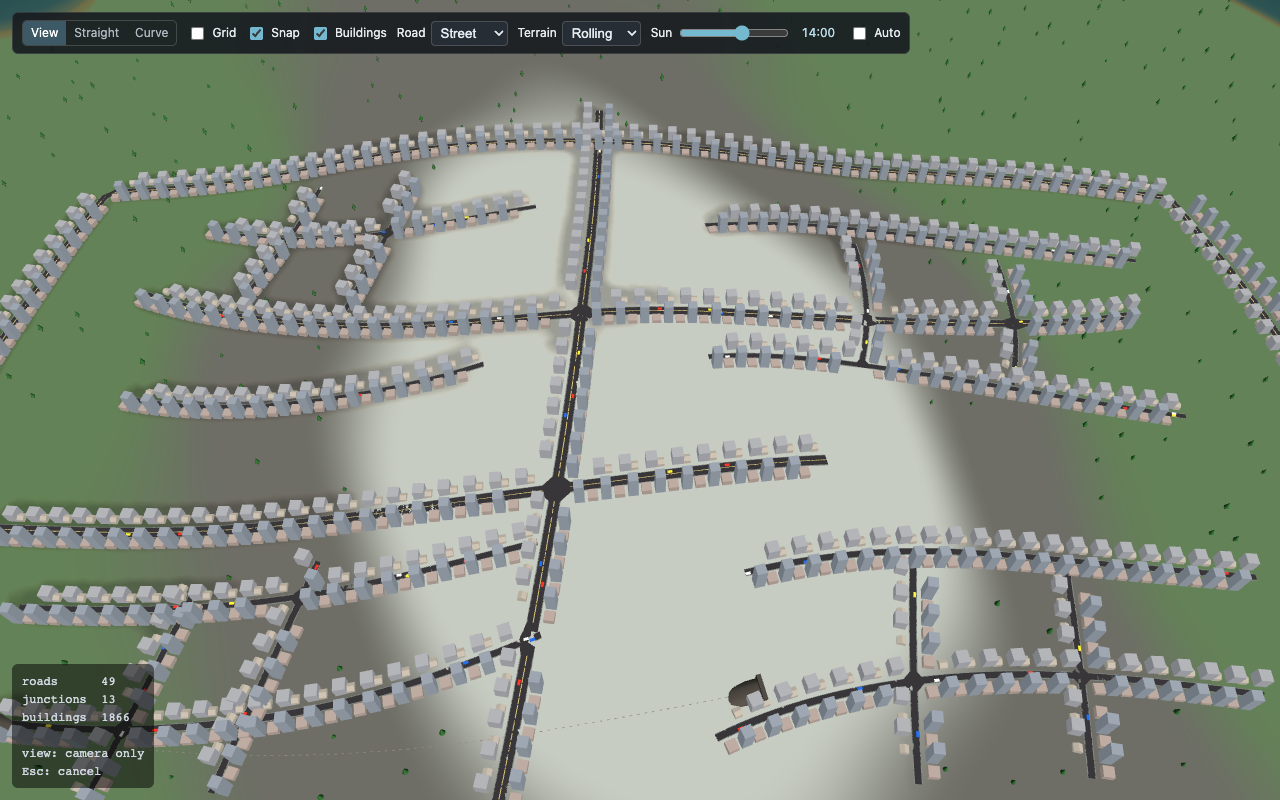
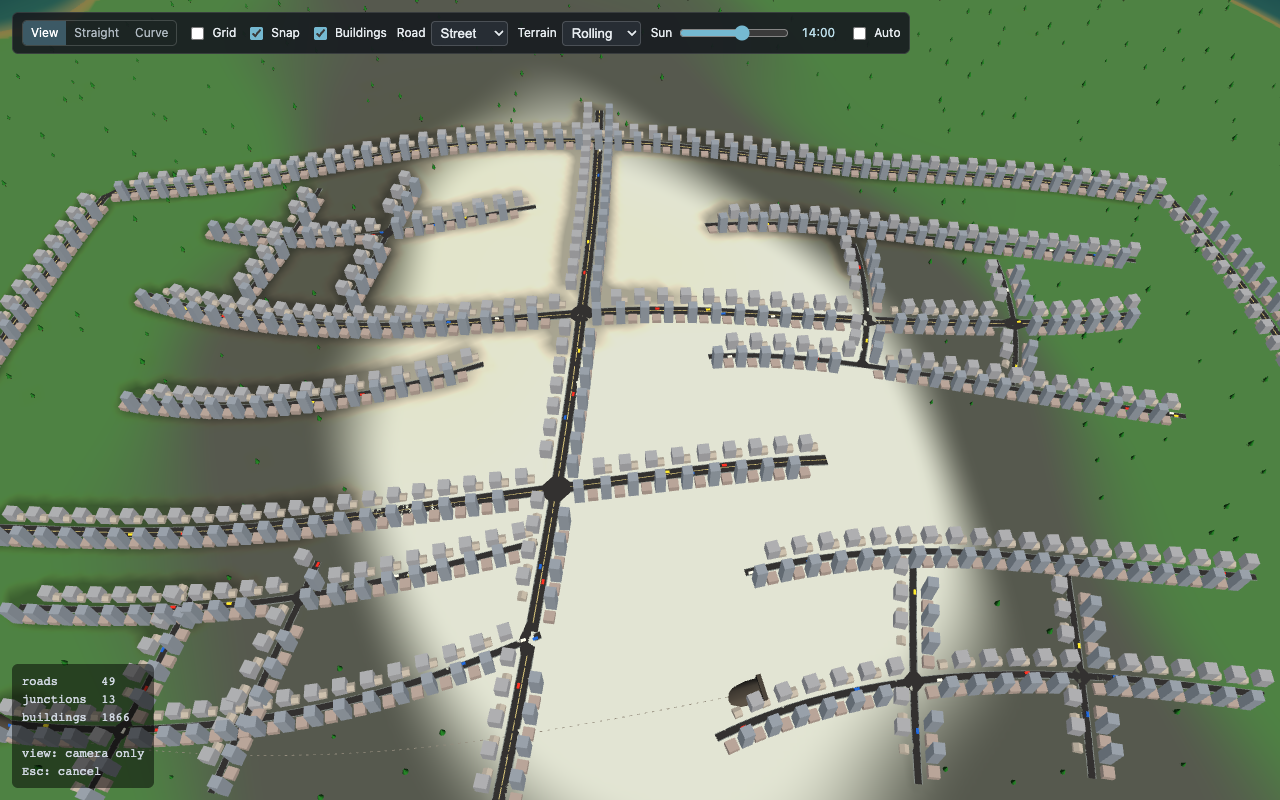
Boost scene color contrast

diff --git a/src/render/ground.ts b/src/render/ground.ts
@@ -80,8 +80,8 @@ export function createGround(scene: Scene, heightmap: Heightmap) {
 export function createOcean(scene: Scene) {
   const material = new StandardMaterial("ocean", scene);
   material.diffuseColor = Color3.White();
-  material.emissiveColor = new Color3(0.01, 0.04, 0.055);
-  material.specularColor = new Color3(0.35, 0.55, 0.62);
+  material.emissiveColor = new Color3(0.005, 0.035, 0.055);
+  material.specularColor = new Color3(0.45, 0.68, 0.72);
   material.transparencyMode = Material.MATERIAL_ALPHABLEND;
 
   const size = GROUND_SIZE;
@@ -138,7 +138,7 @@ function oceanDepth(x: number, z: number): number {
 }
 
 function oceanColor(depth: number, noise: number): Color4 {
-  const color = Color4.Lerp(new Color4(0.1, 0.42, 0.46, 1), new Color4(0.015, 0.12, 0.2, 1), depth * 0.85 + noise * 0.15);
+  const color = Color4.Lerp(new Color4(0.08, 0.5, 0.48, 1), new Color4(0.01, 0.09, 0.22, 1), depth * 0.85 + noise * 0.15);
   color.a = 0.18 + smoothstep(depth) * 0.72;
   return color;
 }
@@ -152,11 +152,11 @@ function waveNoise(x: number, z: number): number {
 }
 
 function terrainColor(h: number, x: number, z: number): Color4 {
-  const sand = new Color4(0.46, 0.43, 0.27, 1);
-  const grass = new Color4(0.39, 0.51, 0.34, 1);
-  const rock = new Color4(0.43, 0.43, 0.4, 1);
-  const snow = new Color4(0.78, 0.8, 0.76, 1);
-  const seafloor = Color4.Lerp(new Color4(0.22, 0.34, 0.32, 1), new Color4(0.08, 0.13, 0.15, 1), distanceFromIsland(x, z));
+  const sand = new Color4(0.58, 0.5, 0.29, 1);
+  const grass = new Color4(0.31, 0.5, 0.27, 1);
+  const rock = new Color4(0.34, 0.35, 0.31, 1);
+  const snow = new Color4(0.86, 0.87, 0.8, 1);
+  const seafloor = Color4.Lerp(new Color4(0.19, 0.36, 0.32, 1), new Color4(0.05, 0.1, 0.15, 1), distanceFromIsland(x, z));
   if (h < SEA_LEVEL + 4) {
     const shore = Color4.Lerp(sand, grass, smoothstep((h - SEA_LEVEL) / 8));
     return Color4.Lerp(seafloor, shore, smoothstep((h - (SEA_LEVEL - 10)) / 14));

diff --git a/src/render/scene.ts b/src/render/scene.ts
@@ -11,6 +11,8 @@ export function createScene(canvas: HTMLCanvasElement) {
   const engine = new Engine(canvas, true, { preserveDrawingBuffer: false, stencil: false });
   const scene = new Scene(engine);
   scene.clearColor = new Color4(0.106, 0.118, 0.137, 1);
+  scene.imageProcessingConfiguration.contrast = 1.12;
+  scene.imageProcessingConfiguration.exposure = 1.04;
 
   // Top-down-ish orbit camera: the city-builder default.
   const camera = new ArcRotateCamera("camera", -Math.PI / 2, Math.PI / 3.6, 220, Vector3.Zero(), scene);
@@ -23,23 +25,23 @@ export function createScene(canvas: HTMLCanvasElement) {
   camera.panningInertia = 0.7;
 
   const ambient = new HemisphericLight("ambient", new Vector3(0, 1, 0), scene);
-  ambient.intensity = 0.65;
-  ambient.groundColor = new Color3(0.25, 0.27, 0.3);
+  ambient.intensity = 0.52;
+  ambient.groundColor = new Color3(0.18, 0.2, 0.22);
 
   const sun = new DirectionalLight("sun", new Vector3(-0.5, -1, -0.35), scene);
   const shadows = new ShadowGenerator(1024, sun);
   shadows.useBlurExponentialShadowMap = true;
   shadows.blurKernel = 8;
-  shadows.setDarkness(0.35);
+  shadows.setDarkness(0.44);
 
   function setSunHour(hour: number): void {
     const phase = ((hour - 6) / 12) * Math.PI;
     const daylight = Math.max(0, Math.sin(phase));
     const azimuth = ((hour - 6) / 24) * Math.PI * 2;
     sun.direction.copyFromFloats(Math.cos(azimuth), -Math.max(0.05, daylight), Math.sin(azimuth)).normalize();
-    sun.intensity = daylight * 1.1;
-    sun.diffuse = Color3.Lerp(new Color3(1, 0.56, 0.34), Color3.White(), daylight);
-    ambient.intensity = 0.2 + daylight * 0.45;
+    sun.intensity = daylight * 1.22;
+    sun.diffuse = Color3.Lerp(new Color3(1, 0.52, 0.28), new Color3(1, 0.97, 0.9), daylight);
+    ambient.intensity = 0.16 + daylight * 0.36;
     scene.clearColor = new Color4(
       0.025 + daylight * 0.081,
       0.035 + daylight * 0.083,

diff --git a/src/render/trees.ts b/src/render/trees.ts
@@ -26,7 +26,7 @@ export function createTreeRenderer(scene: Scene, heightmap: Heightmap, graph: Ro
   trunk.material = trunkMaterial;
 
   const leafMaterial = new StandardMaterial("tree_canopy", scene);
-  leafMaterial.diffuseColor = new Color3(0.16, 0.38, 0.17);
+  leafMaterial.diffuseColor = new Color3(0.12, 0.42, 0.14);
   leafMaterial.specularColor = Color3.Black();
   leaves.material = leafMaterial;
 
@@ -101,7 +101,7 @@ export function createTreeRenderer(scene: Scene, heightmap: Heightmap, graph: Ro
       return;
     }
 
-    shadowMaterial.alpha = 0.08 + daylight * 0.13;
+    shadowMaterial.alpha = 0.1 + daylight * 0.16;
     const directionX = Math.cos(azimuth);
     const directionZ = Math.sin(azimuth);
     const length = 2.6 + (1 - daylight) * 6.8;
